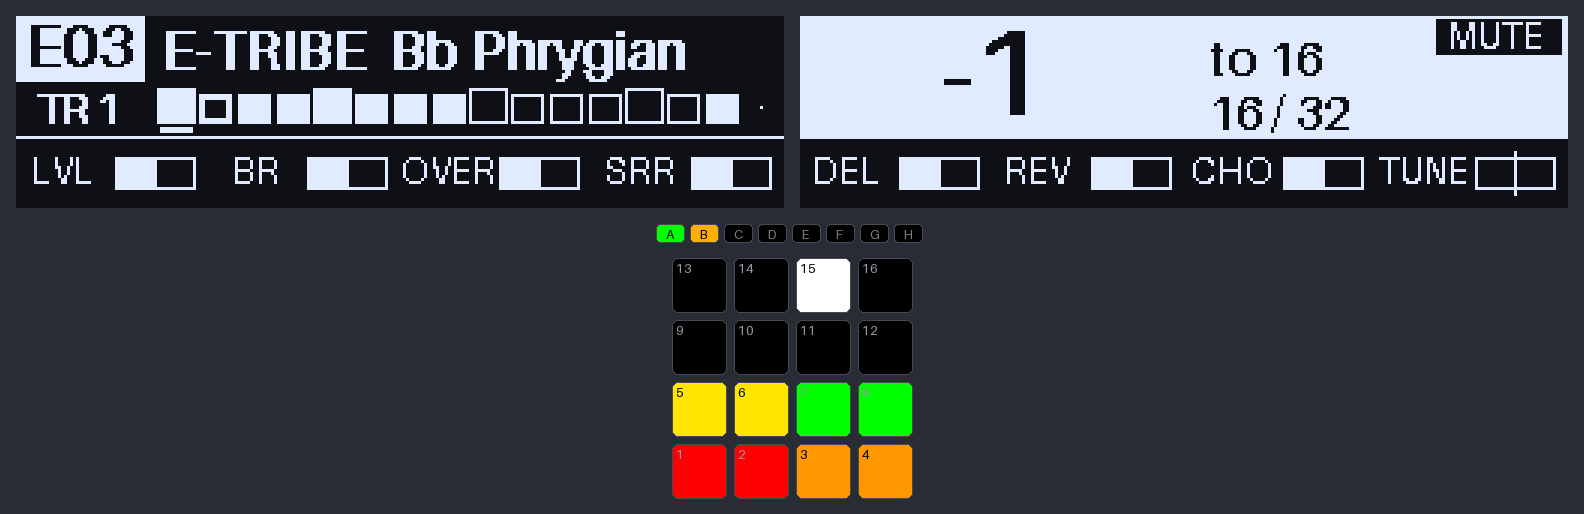
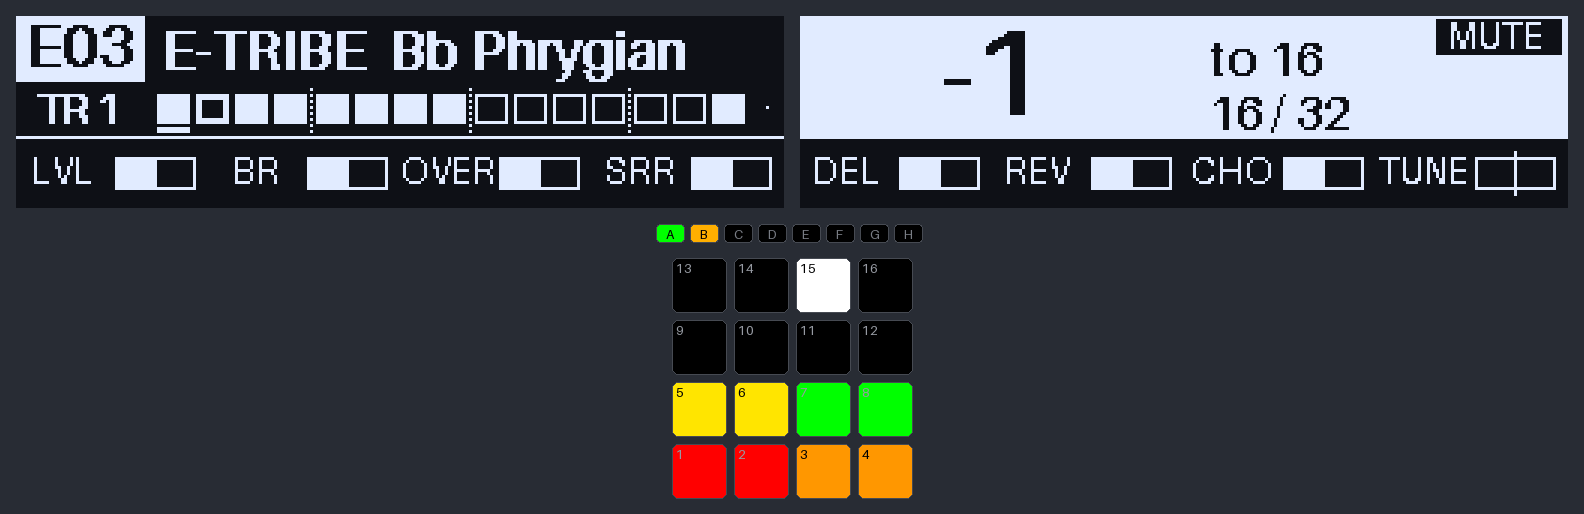
feat(mk-brain): pointillé entre les temps sur la bande des mutes [9]
Fin pointillé vertical entre les cases 4/5, 8/9 et 12/13 ; les 4 groupes
s'écartent de 1 px. Les cases plus grosses sur les temps sont retirées,
elles ne se voyaient pas sur l'écran de la MK2. Captures régénérées.

Changed region(s): [[0.2784, 0.1556, 0.4949, 0.249], [0.0928, 0.1556, 0.2165, 0.249]]

diff --git a/mk-brain/src/mk_brain/render.py b/mk-brain/src/mk_brain/render.py
@@ -194,7 +194,7 @@ def _repeat_band(d: ImageDraw.ImageDraw, engine: Engine, screen: int) -> None:
 
 COLUMN = 46  # colonne « écran de la DT2 » (pattern, SMP, track), à gauche du bandeau gauche
 MUTE_TOP, MUTE_BOTTOM = 26, 35  # cases des mutes, 10 px de haut
-BEAT_GROW = 2  # cases des temps : 2 px plus hautes, 1 px plus larges de chaque côté
+BEAT_LINE = (MUTE_TOP - 2, MUTE_BOTTOM + 3)  # pointillé entre deux temps, dépasse des cases
 STEPS_PER_BAR = 16
 STEPS_PER_BEAT = 4
 TICKS_PER_STEP = 6  # 24 ticks par noire
@@ -211,31 +211,36 @@ def _step(engine: Engine) -> int | None:
     return None if ticks is None else ticks // TICKS_PER_STEP % STEPS_PER_BAR
 
 
+def _mute_x0(track: int, left: int = COLUMN) -> int:
+    """Bord gauche de la case de `track`. Les 4 groupes d'un temps s'écartent de 1 px
+    (-1, 0, +1, +2) : 3 px entre deux temps au lieu de 2, la place du pointillé."""
+    cell = (WIDTH - left) // 16
+    return left + (track - 1) * cell + 2 + (track - 1) // STEPS_PER_BEAT - 1
+
+
 def _mute_strip(d: ImageDraw.ImageDraw, engine: Engine, left: int = COLUMN) -> None:
     """16 cases, une par track : pleine = ouverte, vide = mutée ; track sélectionnée soulignée.
     La track de l'AUTO CHANNEL (pas de mute par son canal) n'a qu'un point. Les 16 cases
     comptent aussi les doubles croches de la mesure : un carré intérieur, en inverse de sa
-    case, marque celle qui joue. Les cases des temps (1, 5, 9, 13) sont plus grosses que
-    les autres (`BEAT_GROW`), en permanence : ce sont les repères de la rangée."""
+    case, marque celle qui joue. Un fin pointillé vertical sépare les temps (entre les
+    cases 4/5, 8/9 et 12/13)."""
     cell = (WIDTH - left) // 16
     top, bottom = MUTE_TOP, MUTE_BOTTOM
     step = _step(engine)
     for t in range(1, 17):
-        x0 = left + (t - 1) * cell + 2
+        x0 = _mute_x0(t, left)
         x1 = x0 + cell - 3
-        playing = step == t - 1
-        box = (x0, top, x1, bottom)
-        if t % STEPS_PER_BEAT == 1:  # case d'un temps : plus grosse, repère de la rangée
-            box = (x0 - 1, top - BEAT_GROW, x1 + 1, bottom)
+        if t > 1 and t % STEPS_PER_BEAT == 1:  # nouveau temps : pointillé au milieu de l'écart
+            d.point([(x0 - 2, y) for y in range(BEAT_LINE[0], BEAT_LINE[1] + 1, 2)], fill=1)
         full = False
         if t == engine.cfg.midi.auto_channel:
             d.point(((x0 + x1) // 2, (top + bottom) // 2), fill=1)
         elif engine.faders.muted.get(t):
-            d.rectangle(box, outline=1)
+            d.rectangle((x0, top, x1, bottom), outline=1)
         else:
-            d.rectangle(box, fill=1)
+            d.rectangle((x0, top, x1, bottom), fill=1)
             full = True
-        if playing:
+        if step == t - 1:
             d.rectangle((x0 + 2, top + 2, x1 - 2, bottom - 2), fill=0 if full else 1)
         if t == engine.track:
             d.rectangle((x0, bottom + 2, x1, bottom + 3), fill=1)

diff --git a/mk-brain/tests/test_render.py b/mk-brain/tests/test_render.py
@@ -65,8 +65,7 @@ def test_pad_hit_shown_in_both_layouts(cfg: Config) -> None:
 
 def _cell(track: int) -> int:
     """Abscisse du centre de la case de mute de `track`."""
-    cell = (WIDTH - render.COLUMN) // 16
-    return render.COLUMN + (track - 1) * cell + cell // 2 + 1
+    return render._mute_x0(track) + 5
 
 
 def test_mute_strip_open_muted_and_selected(cfg: Config) -> None:
@@ -92,21 +91,20 @@ def test_mute_strip_marks_playing_sixteenth(cfg: Config) -> None:
     assert render.left(Engine(cfg), 0).getpixel((_cell(2), mid))  # à l'arrêt : rien
 
 
-def test_mute_strip_beat_cells_are_bigger(cfg: Config) -> None:
-    """Les cases des temps (1, 5, 9, 13) dépassent de la rangée, à l'arrêt comme en jeu,
-    ouvertes ou mutées ; le carré de la double croche en cours garde sa taille."""
-    above = render.MUTE_TOP - render.BEAT_GROW  # ligne au-dessus des cases ordinaires
-    eng = Engine(cfg)
-    eng.faders.muted[9] = True
-    img = render.left(eng, 0)
-    for track in range(1, 17):
-        assert bool(img.getpixel((_cell(track), above))) == (track in (1, 5, 9, 13))
-    assert not img.getpixel((_cell(9), render.MUTE_TOP + 4))  # mutée : toujours vide
-    eng = at_bar(cfg, 3)
-    advance(eng, 2 * 96 + 10, 2 * 96 + 26)  # 5e double croche : 2e temps
-    img = render.left(eng, 0)
-    assert img.getpixel((_cell(5), above)) and img.getpixel((_cell(5), render.MUTE_TOP + 1))
-    assert not img.getpixel((_cell(5), render.MUTE_TOP + 4))  # carré intérieur en inverse
+def test_mute_strip_dotted_line_between_beats(cfg: Config) -> None:
+    """Pointillé vertical entre les cases 4/5, 8/9 et 12/13, à 1 px de chaque case,
+    dépassant de la rangée ; rien entre les autres cases."""
+    img = render.left(Engine(cfg), 0)
+    top, bottom = render.BEAT_LINE
+    for track in (5, 9, 13):
+        x = render._mute_x0(track) - 2
+        column = [bool(img.getpixel((x, y))) for y in range(top, bottom + 1)]
+        assert column == [i % 2 == 0 for i in range(len(column))]
+        assert not img.getpixel((x - 1, render.MUTE_TOP + 4))
+        assert not img.getpixel((x + 1, render.MUTE_TOP + 4))
+    for track in (2, 6, 16):
+        assert not img.getpixel((render._mute_x0(track) - 2, top))
+    assert render._mute_x0(16) + 10 < WIDTH
 
 
 def test_mode_tag_always_shown(cfg: Config) -> None:

diff --git a/mk-brain/SPEC.md b/mk-brain/SPEC.md
@@ -989,10 +989,11 @@ TR 1   ■ ▣ □ ■ ■ ■ ■ ■ ■ ■ □ ■ ■ ■ ■ ·           
 - mutes sur toute la largeur restante, cases de 10 px ; elles comptent
   aussi les 16 doubles croches de la mesure : un carré intérieur, en
   inverse de sa case, marque celle qui joue (rien à l'arrêt), 7 × 6 px.
-  Les cases des temps (1, 5, 9, 13) sont plus grosses que les autres, en
-  permanence, pour se repérer dans la rangée : 13 × 12 px au lieu de
-  11 × 10 (2 px vers le haut, 1 px de chaque côté ; demandé le
-  2026-11-11, v0.30.6). L'écran gauche est donc redessiné à chaque
+  Un fin pointillé vertical sépare les temps, entre les cases 4/5, 8/9 et
+  12/13 (demandé le 2026-11-11, v0.31.0) ; les 4 groupes de cases
+  s'écartent de 1 px pour lui laisser 3 px. Les cases plus grosses sur les
+  temps, essayées en v0.30.5 et v0.30.6, ne se voyaient pas sur l'écran de
+  la MK2. L'écran gauche est donc redessiné à chaque
   double croche, soit 60 / 165 / 4 = 91 ms à 165 BPM, environ 11 images
   par seconde ; essayé sur le Pi le 2026-11-11, sans retard depuis le
   cache du rendu (v0.30.2) ;

diff --git a/mk-brain/docs/GUIDE.md b/mk-brain/docs/GUIDE.md
@@ -54,9 +54,9 @@ joué est présélectionné : un appui suffit. SHIFT + BROWSE (◀ ou ▶) revie
 - **Bande des mutes** : une case par track, pleine = ouverte, vide =
   mutée ; la track sélectionnée est soulignée ; la 16 n'a qu'un point
   (AUTO CHANNEL, pas de mute). Transport lancé, un petit carré parcourt
-  les 16 cases : c'est la double croche en cours dans la mesure. Les
-  cases des temps (1, 5, 9, 13) sont plus grosses que les autres, en
-  permanence : ce sont les repères de la rangée.
+  les 16 cases : c'est la double croche en cours dans la mesure. Un
+  fin pointillé vertical sépare les temps, entre les cases 4/5, 8/9 et
+  12/13.
 - **Écran droit, en haut** : la phrase en noir sur blanc (`PHR 01`), la
   mesure dans la phrase (`10 / 32`), les mesures avant le prochain cap
   (`-7 to 16`) et, dessous, le pattern suivant quand il est annoncé

diff --git a/mk-brain/CHANGELOG.md b/mk-brain/CHANGELOG.md
@@ -3,6 +3,16 @@
 Format [Keep a Changelog](https://keepachangelog.com/fr/1.1.0/). Chaque slice
 de `SPEC.md` § Phases = une entrée balisée `[N]` et une version mineure.
 
+## [0.31.0] - 2026-11-11
+
+### Modifié
+
+- [9] Bande des mutes : un fin pointillé vertical sépare les temps, entre
+  les cases 4/5, 8/9 et 12/13 ; les 4 groupes de cases s'écartent de 1 px
+  pour lui faire place. Les cases plus grosses sur les temps (v0.30.5,
+  v0.30.6) sont retirées : elles ne se voyaient pas sur l'écran de la MK2.
+- Captures du guide (`docs/img/`) régénérées.
+
 ## [0.30.6] - 2026-11-11
 
 ### Corrigé
